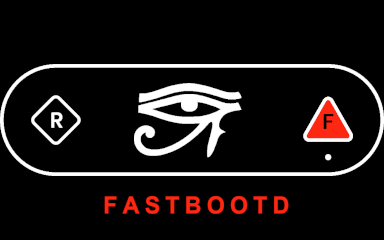
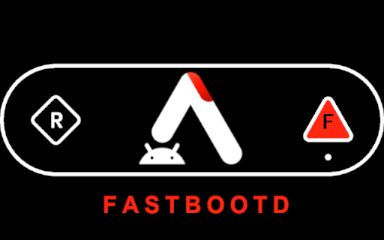
Initial rebrand

diff --git a/recovery_ui/screen_ui.cpp b/recovery_ui/screen_ui.cpp
@@ -822,7 +822,7 @@ void ScreenRecoveryUI::draw_menu_and_text_buffer_locked(
   int y = margin_height_;
 
   if (menu_) {
-    auto& logo = fastbootd_logo_enabled_ ? fastbootd_logo_ : lineage_logo_;
+    auto& logo = fastbootd_logo_enabled_ ? fastbootd_logo_ : default_logo_;
     auto logo_width = gr_get_width(logo.get());
     auto logo_height = gr_get_height(logo.get());
     auto centered_x = ScreenWidth() / 2 - logo_width / 2;
@@ -870,7 +870,7 @@ void ScreenRecoveryUI::draw_menu_and_text_buffer_locked(
 // Draws the battery capacity on the screen. Should only be called with updateMutex locked.
 void ScreenRecoveryUI::draw_battery_capacity_locked() {
   int x;
-  int y = gr_get_height(lineage_logo_.get());
+  int y = gr_get_height(default_logo_.get());
   int icon_x, icon_y, icon_h, icon_w;
 
   // Battery status
@@ -1163,10 +1163,10 @@ bool ScreenRecoveryUI::Init(const std::string& locale) {
   back_icon_sel_ = LoadBitmap("ic_back_sel");
   if (android::base::GetBoolProperty("ro.boot.dynamic_partitions", false) ||
       android::base::GetBoolProperty("ro.fastbootd.available", false)) {
-    lineage_logo_ = LoadBitmap("logo_image_switch");
+    default_logo_ = LoadBitmap("logo_image_switch");
     fastbootd_logo_ = LoadBitmap("fastbootd");
   } else {
-    lineage_logo_ = LoadBitmap("logo_image");
+    default_logo_ = LoadBitmap("logo_image");
   }
 
   // Background text for "installing_update" could be "installing update" or
@@ -1497,8 +1497,8 @@ int ScreenRecoveryUI::SelectMenu(const Point& p) {
   if (menu_) {
     if (!menu_->IsMain()) {
       // Back arrow hitbox
-      const static int logo_width = gr_get_width(lineage_logo_.get());
-      const static int logo_height = gr_get_height(lineage_logo_.get());
+      const static int logo_width = gr_get_width(default_logo_.get());
+      const static int logo_height = gr_get_height(default_logo_.get());
       const static int icon_w = gr_get_width(back_icon_.get());
       const static int icon_h = gr_get_height(back_icon_.get());
       const static int centered_x = ScreenWidth() / 2 - logo_width / 2;

diff --git a/recovery.cpp b/recovery.cpp
@@ -846,7 +846,7 @@ Device::BuiltinAction start_recovery(Device* device, const std::vector<std::stri
   std::string ver = android::base::GetProperty("ro.modversion", "");
 
   std::vector<std::string> title_lines = {
-    "Version " + android::base::GetProperty("ro.crdroid.build.version", "(unknown)"),
+    "Version " + android::base::GetProperty("ro.alpha.build.version", "(unknown)"),
   };
   if (android::base::GetBoolProperty("ro.build.ab_update", false)) {
     std::string slot = android::base::GetProperty("ro.boot.slot_suffix", "");
